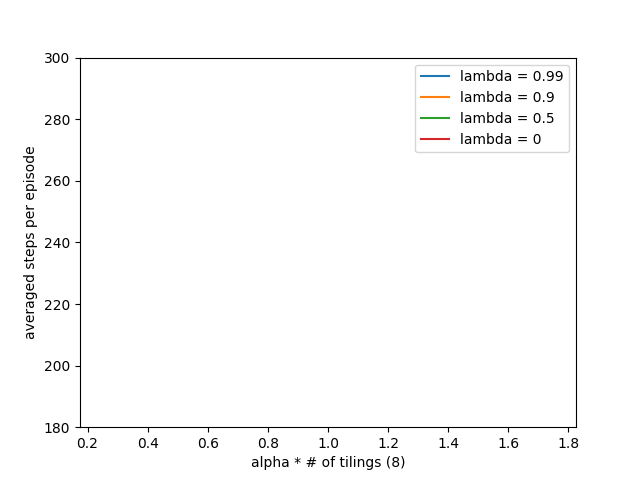
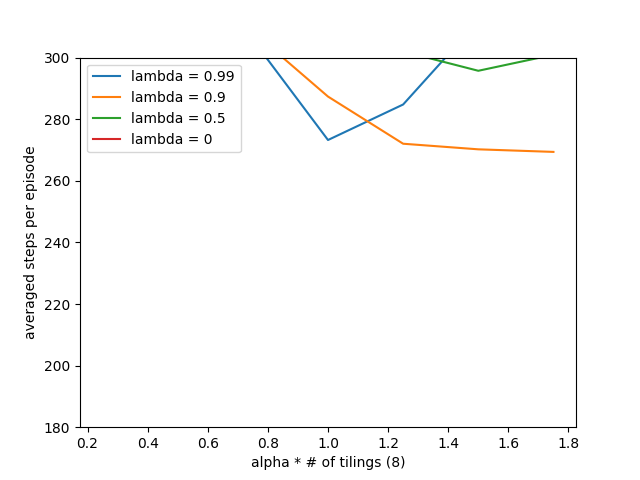
...

diff --git a/PA3/run_me.py b/PA3/run_me.py
@@ -104,20 +104,7 @@ DISCOUNT = 1.0
 EPSILON = 0
 
 # maximum steps per episode
-STEP_LIMIT = 5000
-
-
-# take an @action at @position and @velocity
-# @return: new position, new velocity, reward (always -1)
-# def step(position, velocity, action):
-#     new_velocity = velocity + 0.001 * action - 0.0025 * np.cos(3 * position)
-#     new_velocity = min(max(VELOCITY_MIN, new_velocity), VELOCITY_MAX)
-#     new_position = position + new_velocity
-#     new_position = min(max(POSITION_MIN, new_position), POSITION_MAX)
-#     reward = -1.0
-#     if new_position == POSITION_MIN:
-#         new_velocity = 0.0
-#     return new_position, new_velocity, reward
+STEP_LIMIT = 1000
 
 
 # accumulating trace update rule
@@ -200,10 +187,9 @@ class Sarsa:
         self.velocity_scale = self.num_of_tilings / (VELOCITY_MAX - VELOCITY_MIN)
 
     # get indices of active tiles for given state and action
-    def get_active_tiles(self, mountain_car, action):
+    def get_active_tiles(self, state, action):
         # I think positionScale * (position - position_min) would be a good normalization.
         # However, positionScale * position_min is a constant, so it's ok to ignore it.
-        state = mountain_car.getState()
         return tiles(self.hash_table, self.num_of_tilings,
                              [self.position_scale * state[0], self.velocity_scale * state[1]], [action])
 
@@ -211,7 +197,7 @@ class Sarsa:
     def value(self, mountain_car, action):
         if mountain_car.isTerminal():
             return 0.0
-        return np.sum(self.weights[self.get_active_tiles(mountain_car, action)])
+        return np.sum(self.weights[self.get_active_tiles(mountain_car.getState(), action)])
 
     # learn with given state, action and target
     def learn(self, state, action, target):
@@ -265,25 +251,28 @@ def play(mountain_car, evaluator):
         action = next_action
         steps += 1
 
-    print('Step Limit Exceeded!')
+    # print('Step Limit Exceeded!')
     return steps
 
 
 # figure 12.10, effect of the lambda and alpha on early performance of Sarsa(lambda)
 def figure_12_10():
     mountain_car = sim.MountainCar()
-    runs = 20
-    episodes = 1
+    runs = 50
+    episodes = 20
     alphas = np.arange(1, 8) / 4.0
     lams = [0.99, 0.9, 0.5, 0]
 
     steps = np.zeros((len(lams), len(alphas), runs, episodes))
+    progress = tqdm(total=runs*episodes*len(lams)*len(alphas), ncols=100)
     for lamInd, lam in enumerate(lams):
         for alphaInd, alpha in enumerate(alphas):
-            for run in tqdm(range(runs)):
+            for run in range(runs):
                 evaluator = Sarsa(alpha, lam, replacing_trace)
                 for ep in range(episodes):
                     steps[lamInd, alphaInd, run, ep] = play(mountain_car, evaluator)
+                    progress.update()
+    progress.close()
 
     # average over episodes
     steps = np.mean(steps, axis=3)
@@ -302,20 +291,21 @@ def figure_12_10():
     plt.close()
 
 
-# figure 12.11, summary comparision of Sarsa(lambda) algorithms
+# figure 12.11, summary comparison of Sarsa(lambda) algorithms
 # I use 8 tilings rather than 10 tilings
 def figure_12_11():
     mountain_car = sim.MountainCar()
     traceTypes = [dutch_trace, replacing_trace, replacing_trace_with_clearing, accumulating_trace]
-    alphas = np.arange(0.2, 2.2, 0.2)
-    episodes = 1
-    runs = 20
+    alphas = np.arange(1, 8) / 4.0
+    episodes = 20
+    runs = 50
     lam = 0.9
     rewards = np.zeros((len(traceTypes), len(alphas), runs, episodes))
 
+    progress = tqdm(total=runs * episodes * len(traceTypes) * len(alphas), ncols=100)
     for traceInd, trace in enumerate(traceTypes):
         for alphaInd, alpha in enumerate(alphas):
-            for run in tqdm(range(runs)):
+            for run in range(runs):
                 evaluator = Sarsa(alpha, lam, trace)
                 for ep in range(episodes):
                     if trace == accumulating_trace and alpha > 0.6:
@@ -323,6 +313,8 @@ def figure_12_11():
                     else:
                         steps = play(mountain_car, evaluator)
                     rewards[traceInd, alphaInd, run, ep] = -steps
+                    progress.update()
+    progress.close()
 
     # average over episodes
     rewards = np.mean(rewards, axis=3)
@@ -342,5 +334,5 @@ def figure_12_11():
 
 
 if __name__ == '__main__':
-    figure_12_10()
+    # figure_12_10()
     figure_12_11()
